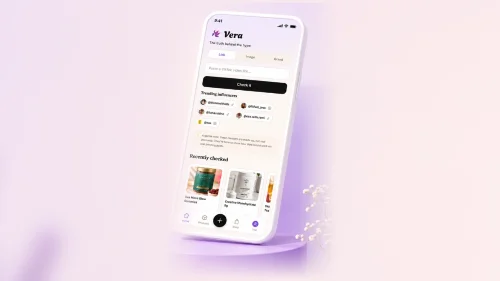
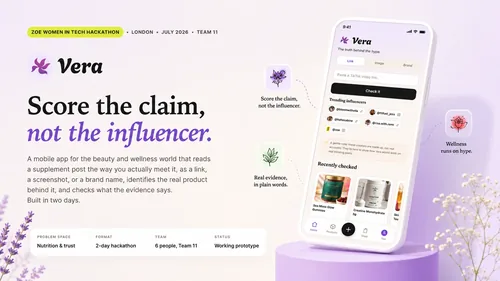
Vera: the new card artwork
Replaces the phone-only render with the hackathon graphic: the Vera mark,
"Score the claim, not the influencer", the description, and the problem
space, format, team and status row.

Same three filenames, so no markup changes for the srcset, and the source
is 1672x941, within 0.002 of the card box, so it resizes into 1174x660 with
0.22% crop. Heavier than before, 20KB to 58KB, because this artwork carries
type and interface detail where the old one was a smooth render; q82 holds
39.6dB on the headline, against 38.2 at q76 and 40.9 at q84.

The alt text changes with the picture, since it now describes a graphic
rather than a screenshot.

diff --git a/ai-projects/index.html b/ai-projects/index.html
@@ -103,7 +103,7 @@
 </style></div><div class="yellow-circle-hero"></div><div class="blue-circle"></div><div class="large-pink-circle"></div></section><section id="selected-works" class="section---webflow-intro"><div id="webflow-intro-2" data-w-id="42c83ce9-e06b-a8b4-5723-9e30ec0290d4" class="case-study-block-title big-text webflow"><h2 data-w-id="42c83ce9-e06b-a8b4-5723-9e30ec0290d5" class="heading-23">Selected Works</h2><div data-w-id="42c83ce9-e06b-a8b4-5723-9e30ec0290d7" class="divider center"></div><div id="ai-projects" data-w-id="42c83ce9-e06b-a8b4-5723-9e30ec0290d8" class="intro-big-text webflow-projects">AI Projects</div></div></section><section class="section---selected-works">
 <!-- AI project cards. Replace each placeholder SVG with a real image of the same
      1174x1020 ratio, and edit the copy freely. -->
-<div class="home-project-images-container ai-projects-grid"><a href="https://irinacsapo.github.io/zoe-hackathon-app/" target="_blank" rel="noopener" style="--pc: #127a64" class="small-case-study-link-block ai-project-card w-inline-block"><img src="../assets/images/ai-projects/vera-card.webp" loading="lazy" sizes="(max-width: 767px) 100vw, 681px" srcset="../assets/images/ai-projects/vera-card-p-500.webp 500w, ../assets/images/ai-projects/vera-card-p-800.webp 800w, ../assets/images/ai-projects/vera-card.webp 1174w" alt="Vera app on a phone, showing the link checker and recently checked products" class="pc-media"/><div class="pc-body"><h2 class="pc-title">Vera</h2><p class="pc-industry"><strong>Industry:</strong> Health &amp; Nutrition</p><p class="pc-desc"><strong>Score the claim, not the influencer.</strong> A supplement fact-checker built in two days at the ZOE hackathon.</p><div class="pc-tags"><span class="pc-tag">Gen AI</span><span class="pc-tag">LLM</span><span class="pc-tag">Health</span><span class="pc-tag">Fact-checking</span><span class="pc-tag">Hackathon</span><span class="pc-tag">Web App</span><span class="pc-tag">Product Design</span><span class="pc-tag">Mobile Prototype</span></div><div class="ai-live-link">View live project</div></div></a><div style="--pc: #575ecf" class="small-case-study-link-block ai-project-card ai-project-card--links"><img src="../assets/images/ai-projects/cheer-card.webp" loading="lazy" sizes="(max-width: 767px) 100vw, 681px" srcset="../assets/images/ai-projects/cheer-card-p-500.webp 500w, ../assets/images/ai-projects/cheer-card-p-800.webp 800w, ../assets/images/ai-projects/cheer-card.webp 1174w" alt="Cheer on a phone, showing the onboarding screen: log the small stuff" class="pc-media"/><div class="pc-body"><h2 class="pc-title">Cheer</h2><p class="pc-industry"><strong>Industry:</strong> Wellbeing</p><p class="pc-desc"><strong>A support network, not a social network.</strong> A small, private squad cheers on the things that are hard to do: a job application, a walk on a low day, a habit worth keeping. No followers, no feed, no like counts.</p><div class="pc-tags"><span class="pc-tag">Gen AI</span><span class="pc-tag">LLM Moderation</span><span class="pc-tag">Wellbeing</span><span class="pc-tag">Privacy by Design</span><span class="pc-tag">Accessibility</span><span class="pc-tag">Hackathon</span><span class="pc-tag">Product Design</span><span class="pc-tag">Web App</span></div><div class="ai-cta-row"><a href="https://getcheer.lovable.app" target="_blank" rel="noopener" class="ai-live-link">View live project</a><a href="../case-studies/cheer-case-study/" class="ai-second-link">Case Study</a></div></div></div><a href="https://www.cosmicpets.love/" target="_blank" rel="noopener" style="--pc: #7b4fd6" class="small-case-study-link-block ai-project-card w-inline-block"><video class="pc-media" muted loop playsinline preload="metadata" poster="../assets/images/cp-hero-bg-dark-v2.webp" aria-hidden="true" tabindex="-1" disablepictureinpicture><source src="../assets/media/cosmic-pets-bg.mp4" type="video/mp4"/></video><div class="pc-body"><h2 class="pc-title">Cosmic Pets</h2><p class="pc-industry"><strong>Industry:</strong> Pets &amp; Personalised Art</p><p class="pc-desc"><strong>Custom cosmic portraits of your pets.</strong> Upload a photo and your pet is reimagined as a one-of-a-kind cosmic portrait.</p><div class="pc-tags"><span class="pc-tag">Gen AI</span><span class="pc-tag">Image Generation</span><span class="pc-tag">E-commerce</span><span class="pc-tag">Product Design</span><span class="pc-tag">Branding</span><span class="pc-tag">Storytelling</span><span class="pc-tag">Web App</span></div><div class="ai-live-link">View live project</div></div></a><a href="https://letters.irina.love" target="_blank" rel="noopener" style="--pc: #a47cd6" class="small-case-study-link-block ai-project-card w-inline-block"><video class="pc-media" muted loop playsinline preload="metadata" poster="../assets/images/letters-hero-web-poster.webp" aria-hidden="true" tabindex="-1" disablepictureinpicture><source src="../assets/media/letters-hero-web.mp4" type="video/mp4"/></video><div class="pc-body"><h2 class="pc-title">Letters from Your Future Self</h2><p class="pc-industry"><strong>Industry:</strong> Wellbeing</p><p class="pc-desc"><strong>A mood, reframed.</strong> Share how you feel today and receive a letter of perspective from the person you are becoming.</p><div class="pc-tags"><span class="pc-tag">Gen AI</span><span class="pc-tag">LLM</span><span class="pc-tag">Wellbeing</span><span class="pc-tag">Storytelling</span><span class="pc-tag">Web App</span><span class="pc-tag">Image Generation</span><span class="pc-tag">Product Design</span></div><div class="ai-live-link">View live project</div></div></a><a href="https://soundtrack.irina.love" target="_blank" rel="noopener" style="--pc: #1f64e0" class="small-case-study-link-block ai-project-card w-inline-block"><video class="pc-media" muted loop playsinline preload="metadata" poster="../assets/images/soundtrack-hero-poster.webp" aria-hidden="true" tabindex="-1" disablepictureinpicture><source src="../assets/media/soundtrack-hero.mp4" type="video/mp4"/></video><div class="pc-body"><h2 class="pc-title">Soundtrack of Your Life</h2><p class="pc-industry"><strong>Industry:</strong> Music &amp; Wellbeing</p><p class="pc-desc"><strong>A moment, recomposed.</strong> Tell it about a moment in your life and it composes an original piece of music for it.</p><div class="pc-tags"><span class="pc-tag">Gen AI</span><span class="pc-tag">Music Generation</span><span class="pc-tag">Storytelling</span><span class="pc-tag">Web App</span><span class="pc-tag">Image Generation</span><span class="pc-tag">Product Design</span><span class="pc-tag">LLM</span></div><div class="ai-live-link">View live project</div></div></a><a href="https://bloom.irina.love" target="_blank" rel="noopener" style="--pc: #c0577f" class="small-case-study-link-block ai-project-card w-inline-block"><video class="pc-media" muted loop playsinline preload="metadata" poster="../assets/images/bloom-rain-hero-web-poster.webp" aria-hidden="true" tabindex="-1" disablepictureinpicture><source src="../assets/media/bloom-rain-hero-web.mp4" type="video/mp4"/></video><div class="pc-body"><h2 class="pc-title">Bloom after Rain</h2><p class="pc-industry"><strong>Industry:</strong> Wellbeing</p><p class="pc-desc"><strong>A loss, regrown.</strong> Turns a loss into a flower that grows in a shared garden of resilience.</p><div class="pc-tags"><span class="pc-tag">Gen AI</span><span class="pc-tag">Image Generation</span><span class="pc-tag">Wellbeing</span><span class="pc-tag">Community</span><span class="pc-tag">Web App</span><span class="pc-tag">LLM</span><span class="pc-tag">Storytelling</span><span class="pc-tag">Product Design</span></div><div class="ai-live-link">View live project</div></div></a></div></section><div class="section---cv border-top no-padding-vertical"><div class="wrapper"><div class="footer-v3"><div class="footer-v3-logo"><a href="../" class="brand no-padding w-nav-brand"><img src="../assets/images/5e9f68d617861b8c6539ccd4_IC_logo_2.svg" alt="Irina Csapo logo" class="image-18"/></a></div><div class="footer-v3-nav"><a href="../" class="footer-v3-link">Home</a><a href="../ai-projects/" class="footer-v3-link">AI Projects</a><a href="../photography/" class="footer-v3-link">Photography</a><a href="../art/" class="footer-v3-link">Art</a><a href="../about/" class="footer-v3-link">About</a><a href="../assets/docs/6a8f880410adf144d77e3d93_v4---Senior-Product-Designer---Irina-Csapo---CV---August-2026.pdf" target="_blank" class="footer-v3-link">CV</a><a href="../contact/" class="footer-v3-link">Contact</a></div><div class="social-icons footer-v3-icons"><a href="https://www.linkedin.com/in/irinacsapo/" target="_blank" rel="noopener" class="social-link facebook w-inline-block"><img src="../assets/images/5eb5fcdaf92b5813c30c4be8_linkedin.svg" width="18" alt="linkedin" class="social-icon-small"/></a><a href="https://www.instagram.com/irina_csapo_art" target="_blank" rel="noopener" class="social-link instagram w-inline-block"><img src="../assets/images/5e9608862c6c0bce460542a0_instagram-icon-white.svg" alt="instagram" class="social-icon-small"/></a><a href="https://irina.love/" target="_blank" rel="noopener" class="social-link dribbble w-inline-block"><img src="../assets/images/5e9608862c6c0b8aea0542ff_store-icon.svg" alt="redbubble" class="social-icon-small"/></a><a href="https://linktr.ee/irina.csapo" target="_blank" rel="noopener" class="social-link behance w-inline-block"><img src="../assets/images/5e9608862c6c0b91bd05429e_rocket-icon.svg" alt="society6" class="social-icon-small"/></a></div><div class="footer-bottom"><div class="footer-bottom-left"><div class="footer-text-left">Created with <span class="heart-icon">love</span> by Irina Csapo</div></div><div class="footer-bottom-right"><div class="text-block-3">© 2026 Irina Csapo – Creative Portfolio. All rights reserved.</div></div></div></div></div></div><script src="../assets/js/jquery.min-2.js" type="text/javascript" crossorigin="anonymous"></script><script src="../assets/js/webflow.schunk.36b8fb49256177c8.js" type="text/javascript" crossorigin="anonymous"></script><script src="../assets/js/webflow.schunk.9f9237bf333f1192.js" type="text/javascript" crossorigin="anonymous"></script><script src="../assets/js/webflow.schunk.bdf58efcee47c042.js" type="text/javascript" crossorigin="anonymous"></script><script src="../assets/js/webflow.58e1bac0.3ac1f7c567b3c54e.js" type="text/javascript" crossorigin="anonymous"></script><script src="../assets/js/gsap/gsap.min.js" type="text/javascript"></script><script src="../assets/js/gsap/SplitText.min.js" type="text/javascript"></script><script src="../assets/js/gsap/ScrollTrigger.min.js" type="text/javascript"></script><!-- Flowbase Cookie Script -->
+<div class="home-project-images-container ai-projects-grid"><a href="https://irinacsapo.github.io/zoe-hackathon-app/" target="_blank" rel="noopener" style="--pc: #127a64" class="small-case-study-link-block ai-project-card w-inline-block"><img src="../assets/images/ai-projects/vera-card.webp" loading="lazy" sizes="(max-width: 767px) 100vw, 681px" srcset="../assets/images/ai-projects/vera-card-p-500.webp 500w, ../assets/images/ai-projects/vera-card-p-800.webp 800w, ../assets/images/ai-projects/vera-card.webp 1174w" alt="Vera: score the claim, not the influencer. The app on a phone, with a field for pasting a TikTok link, trending influencers and recently checked supplements" class="pc-media"/><div class="pc-body"><h2 class="pc-title">Vera</h2><p class="pc-industry"><strong>Industry:</strong> Health &amp; Nutrition</p><p class="pc-desc"><strong>Score the claim, not the influencer.</strong> A supplement fact-checker built in two days at the ZOE hackathon.</p><div class="pc-tags"><span class="pc-tag">Gen AI</span><span class="pc-tag">LLM</span><span class="pc-tag">Health</span><span class="pc-tag">Fact-checking</span><span class="pc-tag">Hackathon</span><span class="pc-tag">Web App</span><span class="pc-tag">Product Design</span><span class="pc-tag">Mobile Prototype</span></div><div class="ai-live-link">View live project</div></div></a><div style="--pc: #575ecf" class="small-case-study-link-block ai-project-card ai-project-card--links"><img src="../assets/images/ai-projects/cheer-card.webp" loading="lazy" sizes="(max-width: 767px) 100vw, 681px" srcset="../assets/images/ai-projects/cheer-card-p-500.webp 500w, ../assets/images/ai-projects/cheer-card-p-800.webp 800w, ../assets/images/ai-projects/cheer-card.webp 1174w" alt="Cheer on a phone, showing the onboarding screen: log the small stuff" class="pc-media"/><div class="pc-body"><h2 class="pc-title">Cheer</h2><p class="pc-industry"><strong>Industry:</strong> Wellbeing</p><p class="pc-desc"><strong>A support network, not a social network.</strong> A small, private squad cheers on the things that are hard to do: a job application, a walk on a low day, a habit worth keeping. No followers, no feed, no like counts.</p><div class="pc-tags"><span class="pc-tag">Gen AI</span><span class="pc-tag">LLM Moderation</span><span class="pc-tag">Wellbeing</span><span class="pc-tag">Privacy by Design</span><span class="pc-tag">Accessibility</span><span class="pc-tag">Hackathon</span><span class="pc-tag">Product Design</span><span class="pc-tag">Web App</span></div><div class="ai-cta-row"><a href="https://getcheer.lovable.app" target="_blank" rel="noopener" class="ai-live-link">View live project</a><a href="../case-studies/cheer-case-study/" class="ai-second-link">Case Study</a></div></div></div><a href="https://www.cosmicpets.love/" target="_blank" rel="noopener" style="--pc: #7b4fd6" class="small-case-study-link-block ai-project-card w-inline-block"><video class="pc-media" muted loop playsinline preload="metadata" poster="../assets/images/cp-hero-bg-dark-v2.webp" aria-hidden="true" tabindex="-1" disablepictureinpicture><source src="../assets/media/cosmic-pets-bg.mp4" type="video/mp4"/></video><div class="pc-body"><h2 class="pc-title">Cosmic Pets</h2><p class="pc-industry"><strong>Industry:</strong> Pets &amp; Personalised Art</p><p class="pc-desc"><strong>Custom cosmic portraits of your pets.</strong> Upload a photo and your pet is reimagined as a one-of-a-kind cosmic portrait.</p><div class="pc-tags"><span class="pc-tag">Gen AI</span><span class="pc-tag">Image Generation</span><span class="pc-tag">E-commerce</span><span class="pc-tag">Product Design</span><span class="pc-tag">Branding</span><span class="pc-tag">Storytelling</span><span class="pc-tag">Web App</span></div><div class="ai-live-link">View live project</div></div></a><a href="https://letters.irina.love" target="_blank" rel="noopener" style="--pc: #a47cd6" class="small-case-study-link-block ai-project-card w-inline-block"><video class="pc-media" muted loop playsinline preload="metadata" poster="../assets/images/letters-hero-web-poster.webp" aria-hidden="true" tabindex="-1" disablepictureinpicture><source src="../assets/media/letters-hero-web.mp4" type="video/mp4"/></video><div class="pc-body"><h2 class="pc-title">Letters from Your Future Self</h2><p class="pc-industry"><strong>Industry:</strong> Wellbeing</p><p class="pc-desc"><strong>A mood, reframed.</strong> Share how you feel today and receive a letter of perspective from the person you are becoming.</p><div class="pc-tags"><span class="pc-tag">Gen AI</span><span class="pc-tag">LLM</span><span class="pc-tag">Wellbeing</span><span class="pc-tag">Storytelling</span><span class="pc-tag">Web App</span><span class="pc-tag">Image Generation</span><span class="pc-tag">Product Design</span></div><div class="ai-live-link">View live project</div></div></a><a href="https://soundtrack.irina.love" target="_blank" rel="noopener" style="--pc: #1f64e0" class="small-case-study-link-block ai-project-card w-inline-block"><video class="pc-media" muted loop playsinline preload="metadata" poster="../assets/images/soundtrack-hero-poster.webp" aria-hidden="true" tabindex="-1" disablepictureinpicture><source src="../assets/media/soundtrack-hero.mp4" type="video/mp4"/></video><div class="pc-body"><h2 class="pc-title">Soundtrack of Your Life</h2><p class="pc-industry"><strong>Industry:</strong> Music &amp; Wellbeing</p><p class="pc-desc"><strong>A moment, recomposed.</strong> Tell it about a moment in your life and it composes an original piece of music for it.</p><div class="pc-tags"><span class="pc-tag">Gen AI</span><span class="pc-tag">Music Generation</span><span class="pc-tag">Storytelling</span><span class="pc-tag">Web App</span><span class="pc-tag">Image Generation</span><span class="pc-tag">Product Design</span><span class="pc-tag">LLM</span></div><div class="ai-live-link">View live project</div></div></a><a href="https://bloom.irina.love" target="_blank" rel="noopener" style="--pc: #c0577f" class="small-case-study-link-block ai-project-card w-inline-block"><video class="pc-media" muted loop playsinline preload="metadata" poster="../assets/images/bloom-rain-hero-web-poster.webp" aria-hidden="true" tabindex="-1" disablepictureinpicture><source src="../assets/media/bloom-rain-hero-web.mp4" type="video/mp4"/></video><div class="pc-body"><h2 class="pc-title">Bloom after Rain</h2><p class="pc-industry"><strong>Industry:</strong> Wellbeing</p><p class="pc-desc"><strong>A loss, regrown.</strong> Turns a loss into a flower that grows in a shared garden of resilience.</p><div class="pc-tags"><span class="pc-tag">Gen AI</span><span class="pc-tag">Image Generation</span><span class="pc-tag">Wellbeing</span><span class="pc-tag">Community</span><span class="pc-tag">Web App</span><span class="pc-tag">LLM</span><span class="pc-tag">Storytelling</span><span class="pc-tag">Product Design</span></div><div class="ai-live-link">View live project</div></div></a></div></section><div class="section---cv border-top no-padding-vertical"><div class="wrapper"><div class="footer-v3"><div class="footer-v3-logo"><a href="../" class="brand no-padding w-nav-brand"><img src="../assets/images/5e9f68d617861b8c6539ccd4_IC_logo_2.svg" alt="Irina Csapo logo" class="image-18"/></a></div><div class="footer-v3-nav"><a href="../" class="footer-v3-link">Home</a><a href="../ai-projects/" class="footer-v3-link">AI Projects</a><a href="../photography/" class="footer-v3-link">Photography</a><a href="../art/" class="footer-v3-link">Art</a><a href="../about/" class="footer-v3-link">About</a><a href="../assets/docs/6a8f880410adf144d77e3d93_v4---Senior-Product-Designer---Irina-Csapo---CV---August-2026.pdf" target="_blank" class="footer-v3-link">CV</a><a href="../contact/" class="footer-v3-link">Contact</a></div><div class="social-icons footer-v3-icons"><a href="https://www.linkedin.com/in/irinacsapo/" target="_blank" rel="noopener" class="social-link facebook w-inline-block"><img src="../assets/images/5eb5fcdaf92b5813c30c4be8_linkedin.svg" width="18" alt="linkedin" class="social-icon-small"/></a><a href="https://www.instagram.com/irina_csapo_art" target="_blank" rel="noopener" class="social-link instagram w-inline-block"><img src="../assets/images/5e9608862c6c0bce460542a0_instagram-icon-white.svg" alt="instagram" class="social-icon-small"/></a><a href="https://irina.love/" target="_blank" rel="noopener" class="social-link dribbble w-inline-block"><img src="../assets/images/5e9608862c6c0b8aea0542ff_store-icon.svg" alt="redbubble" class="social-icon-small"/></a><a href="https://linktr.ee/irina.csapo" target="_blank" rel="noopener" class="social-link behance w-inline-block"><img src="../assets/images/5e9608862c6c0b91bd05429e_rocket-icon.svg" alt="society6" class="social-icon-small"/></a></div><div class="footer-bottom"><div class="footer-bottom-left"><div class="footer-text-left">Created with <span class="heart-icon">love</span> by Irina Csapo</div></div><div class="footer-bottom-right"><div class="text-block-3">© 2026 Irina Csapo – Creative Portfolio. All rights reserved.</div></div></div></div></div></div><script src="../assets/js/jquery.min-2.js" type="text/javascript" crossorigin="anonymous"></script><script src="../assets/js/webflow.schunk.36b8fb49256177c8.js" type="text/javascript" crossorigin="anonymous"></script><script src="../assets/js/webflow.schunk.9f9237bf333f1192.js" type="text/javascript" crossorigin="anonymous"></script><script src="../assets/js/webflow.schunk.bdf58efcee47c042.js" type="text/javascript" crossorigin="anonymous"></script><script src="../assets/js/webflow.58e1bac0.3ac1f7c567b3c54e.js" type="text/javascript" crossorigin="anonymous"></script><script src="../assets/js/gsap/gsap.min.js" type="text/javascript"></script><script src="../assets/js/gsap/SplitText.min.js" type="text/javascript"></script><script src="../assets/js/gsap/ScrollTrigger.min.js" type="text/javascript"></script><!-- Flowbase Cookie Script -->
 <script>
 // default time is 90 days
 flowBaseCookie('#cookieBlock', '#accept', '#clr', 30);
